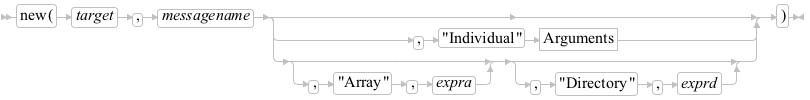
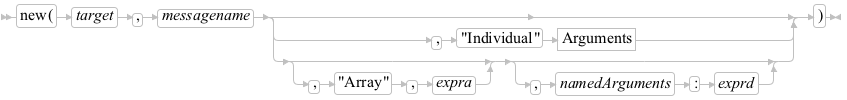
Named arguments: Specification updated. Always use the named argument 'namedArguments' to pass the named arguments.

diff --git a/sandbox/jlf/docs/NamedArguments/NamedArguments-Spec.md b/sandbox/jlf/docs/NamedArguments/NamedArguments-Spec.md
@@ -218,27 +218,14 @@ Inconsistency with the instruction 'forward'.
 Here, "Array" is followed by a mandatory array.  
 There, ARRAY is followed by a list of arguments. ARGUMENTS is followed by a mandatory array.
 
-    >>-new(-target-,-messagename-+----------------------------------------------------+-)--><
-                                 +-,-"Individual"--| Arguments |----------------------+
-                                 +--+-------------------+--+-----------------------+--+
-                                    +-,-"Array"-,-expra-+  +-,-"Directory"-,-exprd-+
+    >>-new(-target-,-messagename-+-------------------------------------------------------+-)--><
+                                 +-,-"Individual"--| Arguments |-------------------------+
+                                 +--+-------------------+--+--------------------------+--+
+                                    +-,-"Array"-,-expra-+  +-,-namedArguments-:-exprd-+
 
 ![USE NAMED ARG](SyntaxDiagram/sd_Message_new.png)
 
-Option "Directory":  
-should I specify a named argument Directory:argument  
-instead of 2 positional arguments "Directory", argument ?  
-Probably yes, I should not impact the positional arguments.  
-[later]  
-Probably no. There is no impact for the ooRexx user, and the option "Directory"  
-is a natural extension of "Array".
-
-Option "Directory":  
-should I specify "NamedArgument" to be consistent with  
-sendWith  
-startWith  
-callWith  
-?
+namedArguments: can be abreviated to 1 letter (n:).  
 
 
 -------------
@@ -256,15 +243,14 @@ Inconsistency with the instruction 'forward'.
 Here, "Array" is followed by a mandatory array.  
 There, ARRAY is followed by a list of arguments. ARGUMENTS is followed by a mandatory array.
 
-    >>-run(-method-+----------------------------------------------------+-)--><
-                   +-,-"Individual"---| Arguments |---------------------+
-                   +--+-------------------+--+-----------------------+--+
-                      +-,-"Array"-,-expra-+  +-,-"Directory"-,-exprd-+
+    >>-run(-method-+-------------------------------------------------------+-)--><
+                   +-,-"Individual"---| Arguments |------------------------+
+                   +--+-------------------+--+--------------------------+--+
+                      +-,-"Array"-,-expra-+  +-,-namedArguments-:-exprd-+
 
 ![USE NAMED ARG](SyntaxDiagram/sd_Object_run.png)
 
-Option "Directory":  
-see the questions for Message~new.
+namedArguments: can be abreviated to 1 letter (n:).  
 
 
 ---------------
@@ -277,7 +263,6 @@ Object~sendWith
 ![USE NAMED ARG](SyntaxDiagram/sd_Object_sendWith.png)
 
 namedArguments: can be abreviated to 1 letter (n:).  
-namedArguments: no reason to name it "Directory", right ?
 
 
 ----------------
@@ -290,7 +275,6 @@ Object~startWith
 ![USE NAMED ARG](SyntaxDiagram/sd_Object_startWith.png)
 
 namedArguments: can be abreviated to 1 letter (n:).  
-namedArguments: no reason to name it "Directory", right ?
 
 
 ----------------
@@ -303,7 +287,6 @@ Routine~callWith
 ![USE NAMED ARG](SyntaxDiagram/sd_Routine_callWith.png)
 
 namedArguments: can be abreviated to 1 letter (n:).  
-namedArguments: no reason to name it "Directory", right ?
 
 
 -----------------
@@ -322,12 +305,12 @@ The ARG built-in function doesn't give access to the named arguments.
 Context~setArgs
 -----------------
 
-    >>-setArgs(-array-,-namedArguments-:-exprd-)--------------------><
+    >>-setArgs(-array-+--------------------------+-)---><
+                      +-,-namedArguments-:-exprd-+
 
 ![USE NAMED ARG](SyntaxDiagram/sd_Context_setArgs.png)
 
 namedArguments: can be abreviated to 1 letter (n:).  
-namedArguments: no reason to name it "Directory", right ?
 
 Used to transfer to a coactivity the arguments passed with 'resume'.  
 A coactivity can be suspended, and can receive a new set of arguments after each resume.
@@ -369,7 +352,7 @@ Security manager CALL
 ---------------------
 
 The information directory contains:  
-NAMEDARGUMENTS: a directory of the function named arguments
+NAMEDARGUMENTS: a directory of the function's named arguments
 
 
 -----------------------
@@ -377,4 +360,4 @@ Security manager METHOD
 -----------------------
 
 The information directory contains:  
-NAMEDARGUMENTS: a directory of the method named arguments
+NAMEDARGUMENTS: a directory of the method's named arguments
